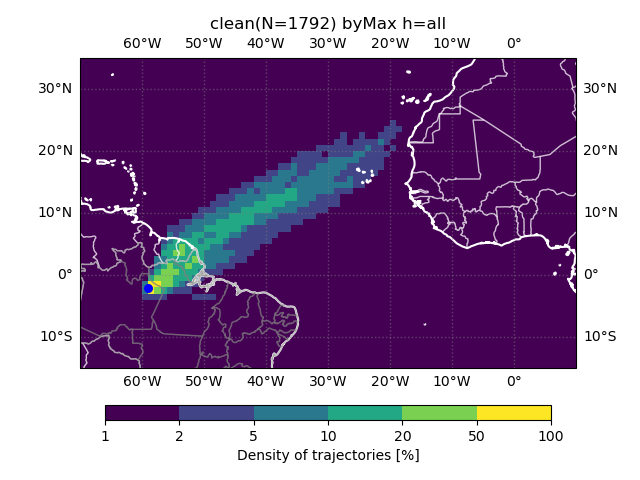
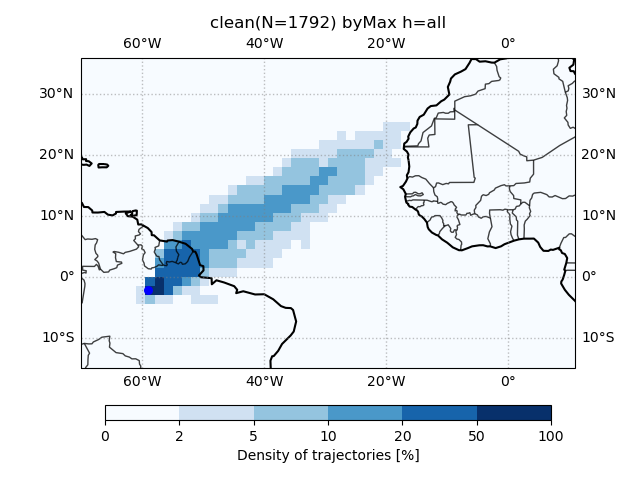
Upgraded version of the figure script (_v2) which generates Figure2 for the LTM paper.

diff --git a/trajs5over_v2.py b/trajs5over_v2.py
@@ -12,9 +12,7 @@ import numpy as np
 import sys
 import io
 
-import importlib
 import ltmbcfiles 
-importlib.reload(ltmbcfiles)
 
 plt.ion()
 plt.interactive(True)
@@ -26,10 +24,10 @@ plt.interactive(True)
 # skip reading if variable already in memory
 if 'listall' not in locals(): 
     print('=== READ DATA')
-
+    
     # FIRST RUN
     #listall = np.load('run1/listall_002_12z_96h.npy')
-
+    
     # SECOND RUN
     #listall = np.load('run2/listall_001_4times_168h.npy') # -2.144  -59.100    500.0 -DLon
     #listall = np.load('run2/listall_002_4times_168h.npy') # -2.144  -59.000    500.0  Normal
@@ -38,16 +36,7 @@ if 'listall' not in locals():
     #listall = np.load('run2/listall_005_4times_168h.npy') # -2.244  -59.000    500.0 -DLat
     #listall = np.load('run2/listall_006_4times_168h.npy') # -2.044  -59.000    500.0 +DLat
     #listall = np.load('run2/listall_007_4times_168h.npy') # -2.144  -58.900    500.0 +DLon
-
-    # THIRD RUN
-    #listall = np.load('run3/listall_250m_24times_168h.npy') # -2.144  -59.100  
-    #listall = np.load('run3/listall_500m_24times_168h.npy') # -2.144  -59.000  
-    #listall = np.load('run3/listall_750m_24times_168h.npy') # -2.144  -59.000  
-    #listall = np.load('run3/listall_1000m_24times_168h.npy') # -2.144  -59.000 
-    #listall = np.load('run3/listall_2000m_24times_168h.npy') # -2.244  -59.000 
-    #listall = np.load('run3/listall_3000m_24times_168h.npy') # -2.044  -59.000 
-    #listall = np.load('run3/listall_4000m_24times_168h.npy') # -2.144  -58.900 
-    
+    #
     #trajlen = 168/0.5 + 1  # number of points
     #trajalt = listall[0,1] # initial altitude
 
@@ -60,32 +49,39 @@ if 'listall' not in locals():
                               np.load('run2/listall_006_4times_168h.npy'), # -2.044  -59.000    500.0 +DLat
                               np.load('run2/listall_007_4times_168h.npy')), # -2.144  -58.900    500.0 +DLon
                              axis = 0)
-
-    # THIRD RUN - ALL AT ONCE
-    #listall = np.concatenate((np.load('run3/listall_250m_24times_168h.npy'), # -2.144  -59.000    250.0 -Dz  
-    #                          np.load('run3/listall_500m_24times_168h.npy'), # -2.144  -59.000    500.0 Normal
-    #                          np.load('run3/listall_750m_24times_168h.npy'), # -2.144  -59.000    750.0 +Dz
-    #                          np.load('run3/listall_1000m_24times_168h.npy'), # -2.144  -59.000  1000.0 ++Dz
-    #                          np.load('run3/listall_2000m_24times_168h.npy'), # -2.244  -59.000  2000.0 +++Dz
-    #                          np.load('run3/listall_3000m_24times_168h.npy'), # -2.044  -59.000  3000.0 ++++Dz
-    #                          np.load('run3/listall_4000m_24times_168h.npy')), # -2.144  -58.900 4000.0 +++++Dz
-    #                         axis = 0)
     #
     trajlen = 168/0.5 + 1  # number of points
-    trajalt = 'all'       # initial altitude
-
+    trajalt = 'all'
+    
     
 # grab just the columns we need here 
 t0   = listall[:,0]   # start hour of traj (0, 6, 12, 18Z)
 alt  = listall[:,1]   # start altitude (250, 500, 750 m)
-tid  = listall[:,2]   # trajectory number 
+tid  = listall[:,2]   # trajectory number
 dt   = listall[:,3]   # backward time (0h, -0.5h, -1h, ...)
 tf   = listall[:,4]   # time of day
 x    = listall[:,5]   
 y    = listall[:,6]   # position
 z    = listall[:,7]
 date = (listall[:,13]*100 + listall[:,14])*100 + listall[:,15]
+#flag = listall[:,16]  # pollution flag
 
+# HMJB: 29-May-2025
+#
+# This script was trying to read column 17, but the files only have 16 columns.
+#
+# I found that the script trajs.py was creating .NPY files with this additional column,
+# but it was using the file clean10_quantile.txt, which had a bug (wrong dates).
+# Moreover, I could not find the .NPY files with this additional column.
+#
+# The figure created by this script overlays the clean and polluted trajectories
+# on the same figure. The figure is on the slide deck, and LTM used it in the paper
+# I'm not sure how I produced this figure without the NPY files... or the wrong dates
+# for the clean days. 
+#
+# Below, I've added code to read the correct FLAGS files, and generate the figure for
+# the paper, but the results is slightly different from what is on the slide deck. 
+#
 
 # ========================================================================================
 # LIST WITH CLEAN X POLLUTTED DAYS
@@ -95,7 +91,9 @@ date = (listall[:,13]*100 + listall[:,14])*100 + listall[:,15]
 # #daycleanTXT = np.genfromtxt('clean_day.txt', delimiter='-', skip_header=1)
 # 
 # # open file, replacing '-' with space 
-# s = io.BytesIO(open('data/BCe_high.txt', 'rb').read().replace(b'-',b' '))
+# #s = io.BytesIO(open('data/polluted90_quantile.txt', 'rb').read().replace(b'-',b' '))
+# #s = io.BytesIO(open('data/BCe_high.txt', 'rb').read().replace(b'-',b' '))
+# s = io.BytesIO(open('data/polluted_day_janfev.txt', 'rb').read().replace(b'-',b' '))
 # # read with space as delimiter
 # daypolutTXT = np.genfromtxt(s, delimiter=' ', skip_header=1)
 # # keep only the columns for y/m/d
@@ -106,7 +104,9 @@ date = (listall[:,13]*100 + listall[:,14])*100 + listall[:,15]
 # print('List of polluted days = ' + str(len(daypolut)))
 # print('    BCe = ',np.mean(highbc),' +- ', np.std(highbc), '  max/min=', np.max(highbc), np.min(highbc))
 # 
-# s = io.BytesIO(open('data/BCe_low.txt', 'rb').read().replace(b'-',b' '))
+# #s = io.BytesIO(open('data/clean10_quantile.txt', 'rb').read().replace(b'-',b' '))
+# #s = io.BytesIO(open('data/BCe_low.txt', 'rb').read().replace(b'-',b' '))
+# s = io.BytesIO(open('data/clean_day_janfev.txt', 'rb').read().replace(b'-',b' '))
 # daycleanTXT = np.genfromtxt(s, delimiter=' ', skip_header=1)
 # lowbc = daycleanTXT[:,1]
 # daycleanTXT = daycleanTXT[:,2:5]
@@ -132,6 +132,7 @@ date = (listall[:,13]*100 + listall[:,14])*100 + listall[:,15]
 daypolut, highbc = ltmbcfiles.read_bc_file('data/polluted_day_janfev.txt')
 dayclean, lowbc = ltmbcfiles.read_bc_file('data/clean_day_janfev.txt')
 
+
 # ========================================================================================
 # CREATE FLAG OF CLEAN / POLUT FOR EACH TRAJECTORY POINT
 # ========================================================================================
@@ -153,65 +154,51 @@ print('=== COMPUTE DENSITY')
 # old domain for 4 days
 #loni=-70; lonf=-20; lati=-15; latf=25; dl=1
 # larger domain for 7 days
-loni=-70; lonf=10; lati=-15; latf=35; dl=1.5
+loni=-70; lonf=0; lati=-15; latf=35; dl=1.5
 
 nxy, xedges, yedges, ntrajs, nmax, nsum = ltmbcfiles.density_map_points(
     [loni, lonf, lati, latf], [dl, dl], [x, y], flag, dt)
 
-# xedges = np.arange(loni, lonf + dl, dl)
-# yedges = np.arange(lati, latf + dl, dl)
-#xcenters = xedges[:-1] + 0.5 * (xedges[1:] - xedges[:-1])
-#ycenters = yedges[:-1] + 0.5 * (yedges[1:] - yedges[:-1])
-# 
-# # matrix to store results
-# nxy = np.zeros([len(ycenters), len(xcenters), 3])
-# ntrajs = np.zeros(3)
-# nmax = np.zeros(3)
-# nsum = np.zeros(3)
-# 
-# # clean=0 polluted=1 other=2
-# print('=== COMPUTE DENSITY')
-# for ff in [0, 1, 2]: 
-#     mask = (flag==ff)
-# 
-#     # count the number of trajectory points inside each gridbox
-#     nxy[:,:,ff] = np.histogram2d(y[mask], x[mask], bins=[yedges, xedges])[0]
-#     
-#     # Each traj can contribute more than once for each gridpoint,
-#     # depending on the output time-step of the trajectory and the size
-#     # of the grid. Which means there are different ways of normalizing
-#     # the density map.
-#     
-#     # number of trajectories
-#     trajini = mask & (dt == 0)
-#     ntrajs[ff] = np.nansum(trajini)
-# 
-#     # maximum number of counts in any gridbox
-#     nmax[ff] = np.nanmax(nxy[:,:,ff])
-# 
-#     # total number of counts
-#     nsum[ff] = np.nansum(nxy[:,:,ff])
-#     
-#     #nxy[:,:,ff] = 100*nxy[:,:,ff]/nmax[ff] 
-#     #nxy[:,:,ff][nxy[:,:,ff]<0.01]=np.nan
-# 
-
+#xedges = np.arange(loni, lonf + dl, dl)
+#yedges = np.arange(lati, latf + dl, dl)
+xcenters = xedges[:-1] + 0.5 * (xedges[1:] - xedges[:-1])
+ycenters = yedges[:-1] + 0.5 * (yedges[1:] - yedges[:-1])
+#
+## matrix to store results
+#nxy = np.zeros([len(ycenters), len(xcenters), 3])
+#ntrajs = np.zeros(3)
+#nmax = np.zeros(3)
+#nsum = np.zeros(3)
+#
+## clean=0 polluted=1 other=2
+#for ff in [0, 1, 2]: 
+#    mask = (flag==ff)
+#
+#    # count the number of trajectory points inside each gridbox
+#    nxy[:,:,ff] = np.histogram2d(y[mask], x[mask], bins=[yedges, xedges])[0]
+#    
+#    # Each traj can contribute more than once for each gridpoint,
+#    # depending on the output time-step of the trajectory and the size
+#    # of the grid. Which means there are different ways of normalizing
+#    # the density map.
+#    
+#    # number of trajectories
+#    trajini = mask & (dt == 0)
+#    ntrajs[ff] = np.nansum(trajini)
+#
+#    # maximum number of counts in any gridbox
+#    nmax[ff] = np.nanmax(nxy[:,:,ff])
+#
+#    # total number of counts
+#    nsum[ff] = np.nansum(nxy[:,:,ff])
+#    
+#    #nxy[:,:,ff] = 100*nxy[:,:,ff]/nmax[ff] 
+#    #nxy[:,:,ff][nxy[:,:,ff]<0.01]=np.nan
+#
 
 # ========================================================================================
 # trying to count each trajectory just once
 # ========================================================================================
-
-#
-# tid restarts with each file
-# add an offset so that the ID's are unique
-#if (trajalt=='all'):
-#    print('reset trajectory ids')
-#    for i in np.arange(1, len(tid)):
-#        if tid[i] < tid[i-1]:
-#            tid[i:] += tid[i-1] - tid[i] + 1
-#
-#nxy, xedges, yedges, ntrajs, nmax, nsum = ltmbcfiles.density_map_trajs(
-#    [loni, lonf, lati, latf], [dl, dl], [x, y], flag, tid)
 
 #nxySingle = np.zeros([len(ycenters), len(xcenters), 3])
 #
@@ -223,9 +210,6 @@ nxy, xedges, yedges, ntrajs, nmax, nsum = ltmbcfiles.density_map_points(
 #    # we have to build a histogram for each trajectory separately
 #    # first, get the list of trajectory IDs for the current pollution flag
 #    idlist = np.unique(tid[mask])
-#
-# hmjb: 2025/jun/4 TID is not unique! it restarts from 0 for a new strating position
-#                  Hence, when loading multiple trajectory files at one, this will not work. 
 #
 #    # now loop over each trajectory
 #    for ii in idlist:
@@ -239,60 +223,111 @@ nxy, xedges, yedges, ntrajs, nmax, nsum = ltmbcfiles.density_map_points(
 #        # finally, accumulate this counts
 #        nxySingle[:,:,ff] =nxySingle[:,:,ff] + temp
     
-
 # ========================================================================================
 # Figures
 # ========================================================================================
 
-#cmap = matplotlib.cm.viridis
-cmap = matplotlib.cm.Blues
 print('=== PLOTS')
-norm = ['byTrajs', 'byPoints', 'byMax', 'single']
-for nn in [2]: 
 
-    tag = ['clean', 'polluted', 'other']
-    for ff in [0, 1]:
-    
-        fig = plt.figure(num=ff+10*nn, clear=True)
+nn=2; norm = ['byTrajs', 'byPoints', 'byMax', 'single']
 
-        # geographic coordinates for maping
-        ax1 = plt.axes(projection=ccrs.PlateCarree())
-        #ax1.set_extent([loni, lonf, lati, latf])
+def fmt(x):
+    s = f"{x:.1f}"
+    if s.endswith("0"):
+        s = f"{x:.0f}"
+    return rf"{s} \%" if plt.rcParams["text.usetex"] else f"{s} %"
 
+# one figure
+# two panels, both with geografic coordinates
 
-        #Cnorm = colors.BoundaryNorm([0.1, 0.2, 0.5, 1,2,5,10,20,50,100], cmap.N)
-        Cnorm = colors.BoundaryNorm([1e-3,2,5,10,20,50,100], cmap.N, clip=False)
-        #Cnorm = colors.LogNorm()
-        #Cnorm = colors.Normalize()
-        if nn==0:
-            pc = ax1.pcolormesh(xedges, yedges, 100*nxy[:,:,ff]/ntrajs[ff], cmap=cmap, norm=Cnorm)
-        if nn==1:
-            pc = ax1.pcolormesh(xedges, yedges, 100*nxy[:,:,ff]/nsum[ff], cmap=cmap, norm=Cnorm)
-        if nn==2:
-            pc = ax1.pcolormesh(xedges, yedges, 100*nxy[:,:,ff]/nmax[ff], cmap=cmap, norm=Cnorm)
-        if nn==3: 
-            pc = ax1.pcolormesh(xedges, yedges, 100*nxySingle[:,:,ff]/ntrajs[ff], cmap=cmap, norm=Cnorm)
+fig, axs = plt.subplots(num=123,nrows=1, ncols=2, clear=True,
+                        subplot_kw={'projection': ccrs.PlateCarree()},
+                        figsize=(12,5))
 
-        fig.colorbar(pc, orientation='horizontal',pad=0.1, aspect=30,
-                     label='Density of trajectories [%]', fraction=0.06, shrink=0.9)
+# geographic coordinates for maping
+#ax1 = plt.axes(projection=ccrs.PlateCarree())
+#ax1.set_extent([loni, lonf, lati, latf])
 
-        ax1.set_title(tag[ff] + '(N={:.0f})'.format(ntrajs[ff]) + ' ' + norm[nn] + ' h=' + str(trajalt))
+cmap = matplotlib.cm.Blues
 
-        gl = ax1.gridlines(crs=ccrs.PlateCarree(), draw_labels=True,
-                           linewidth=1, color='gray', alpha=0.5, linestyle=':')
-        
+#Cnorm = colors.BoundaryNorm([0.1, 0.2, 0.5, 1,2,5,10,20,50,100], cmap.N)
+#Cnorm = colors.BoundaryNorm([1,2,5,10,20,50,100], cmap.N)
+#cl = [0.1, 0.2, 0.5, 1,2,5,10,20,50,100]
+cl = [2,5,10,20,50,100]
+#cl = [1e-3,2,5,10,15,20,25,30,35,40]
+#cl = np.arange(1e-3,60,10)
+Cnorm = colors.BoundaryNorm(cl, cmap.N, clip=False)
+#Cnorm = colors.LogNorm()
+#Cnorm = colors.Normalize()
 
-        # map
-        ax1.add_feature(cfeature.COASTLINE, linewidth=1.5, linestyle='-', edgecolor='black', alpha=1)
-        ax1.add_feature(cfeature.BORDERS, linewidth=1, linestyle='-', edgecolor='black', alpha=.75)
-        ax1.add_feature(cfeature.STATES, linewidth=1, linestyle='-', edgecolor='gray', alpha=.5)
-        plt.scatter(-58.999861, -2.144111, s=30, c='blue', marker='o') #T0a
-        #sys.exit()
+#nxy[nxy<1] = np.nan
 
-        # export PNG
-        fname = 'histplot2d_traj_' + tag[ff] + '_' + norm[nn] + '_' + str(trajalt) + '_168h_counts.png'
-        plt.savefig(fname)
+# --------------------- CLEAN PANEL
+pcCl = axs[0].contourf(xcenters, ycenters, 100*nxy[:,:,0]/nmax[0], cmap=cm.Blues, norm=Cnorm, levels=cl, extend='neither')
+axs[0].contour(xcenters, ycenters, 100*nxy[:,:,0]/nmax[0], colors='black', linewidths=1, levels=cl)
+#axs[0].contour(xcenters, ycenters, 100*nxy[:,:,0]/nmax[0], cmap=cm.Blues.reversed(), norm=Cnorm, levels=cl)
+#axs[0].clabel(pcCl, pcCl.levels[:-1], inline=True, fmt=fmt, fontsize=12, colors='k')
+
+# make fake rectangle. we will use the colors for the legend
+# otherwise the legend will use the first color in the 'shading', which is too light
+#clean = matplotlib.patches.Rectangle((0, 0), 1, 1, facecolor=cm.Blues(0.8))
+#axs[0].legend([clean], ['Clean'], loc='upper left')#, bbox_to_anchor=(0.025, -0.1), fancybox=True)
+
+# place the color bar
+#fig.colorbar(pcCl, ax=axs[0],orientation='horizontal',pad=0.1, aspect=30,
+#             label='Density of trajectories [%]', fraction=0.06, shrink=0.9)
+
+axs[0].set_title('Clean')
+
+# map
+gl = axs[0].gridlines(crs=ccrs.PlateCarree(), draw_labels=True,
+                      linewidth=1, color='gray', alpha=0.5, linestyle=':')
+gl.top_labels = False
+gl.right_labels = False
+axs[0].add_feature(cfeature.COASTLINE, linewidth=1.5, linestyle='-', edgecolor='black', alpha=1)
+axs[0].add_feature(cfeature.BORDERS, linewidth=1, linestyle='-', edgecolor='black', alpha=.75)
+axs[0].add_feature(cfeature.STATES, linewidth=1, linestyle='-', edgecolor='gray', alpha=.5)
+axs[0].scatter(-58.999861, -2.144111, s=30, c='black', marker='*') #T0a
+
+# --------------------- POLLUTED PANEL
+pcPo = axs[1].contourf(xcenters, ycenters, 100*nxy[:,:,1]/nmax[1], cmap=cm.Blues, norm=Cnorm, levels=cl, extend='neither')
+axs[1].contour(xcenters, ycenters, 100*nxy[:,:,1]/nmax[1], colors='black', linewidths=1, levels=cl)
+#axs[1].clabel(pcPo, pcPo.levels[:-1], inline=True, fmt=fmt, fontsize=12, colors='k')
+
+# make fake rectangle. we will use the colors for the legend
+# otherwise the legend will use the first color in the 'shading', which is too light
+#polut = matplotlib.patches.Rectangle((0, 0), 1, 1, facecolor=cm.Reds(0.8))
+#axs[1].legend([polut], ['Polluted'], loc='upper left')#, bbox_to_anchor=(0.025, -0.1), fancybox=True)
+
+# place the color bar
+#fig.colorbar(pcPo, ax=axs[1],orientation='horizontal',pad=0.1, aspect=30,
+#             label='Density of trajectories [%]', fraction=0.06, shrink=0.9)
+
+#ax1.set_title(norm[nn] + ' h=' + str(trajalt))
+axs[1].set_title('Polluted')
+
+# map
+gl = axs[1].gridlines(crs=ccrs.PlateCarree(), draw_labels=True,
+                   linewidth=1, color='gray', alpha=0.5, linestyle=':')
+gl.top_labels = False
+gl.right_labels = False
+axs[1].add_feature(cfeature.COASTLINE, linewidth=1.5, linestyle='-', edgecolor='black', alpha=1)
+axs[1].add_feature(cfeature.BORDERS, linewidth=1, linestyle='-', edgecolor='black', alpha=.75)
+axs[1].add_feature(cfeature.STATES, linewidth=1, linestyle='-', edgecolor='gray', alpha=.5)
+axs[1].scatter(-58.999861, -2.144111, s=30, c='black', marker='*') #T0a
+
+# ---------------------
+# common colorbar for both pannels
+#plt.tight_layout()
+fig.colorbar(pcPo, ax=axs,orientation='horizontal',pad=0.1, aspect=30,
+             label='Density of trajectories [%]', fraction=0.06, shrink=0.5)
+
 #
+
+# export PNG
+fname = 'histplot2d_traj_both_' + norm[nn] + '_' + str(trajalt) + '_168h_counts.png'
+plt.savefig(fname, bbox_inches='tight')
+#s
 
 #
 
